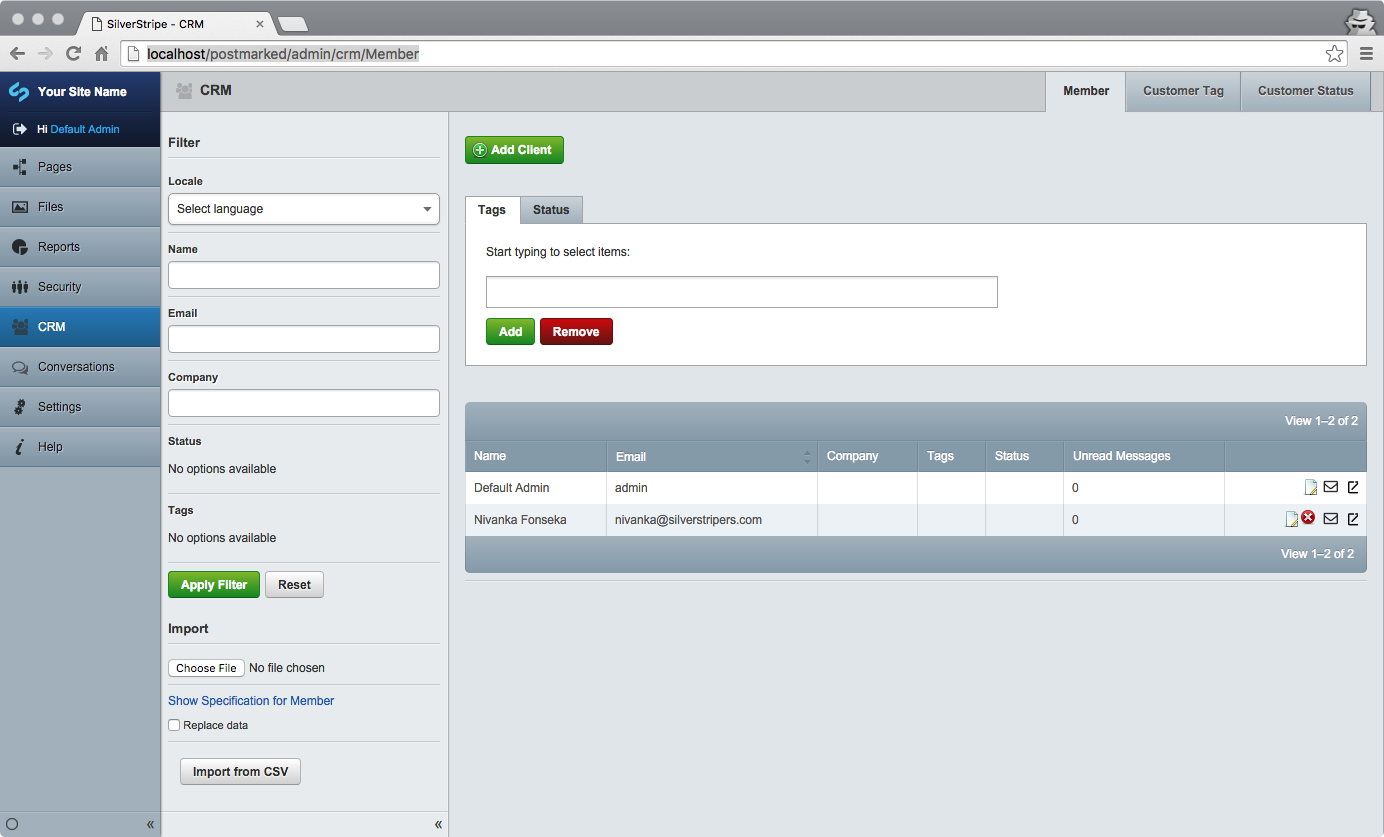
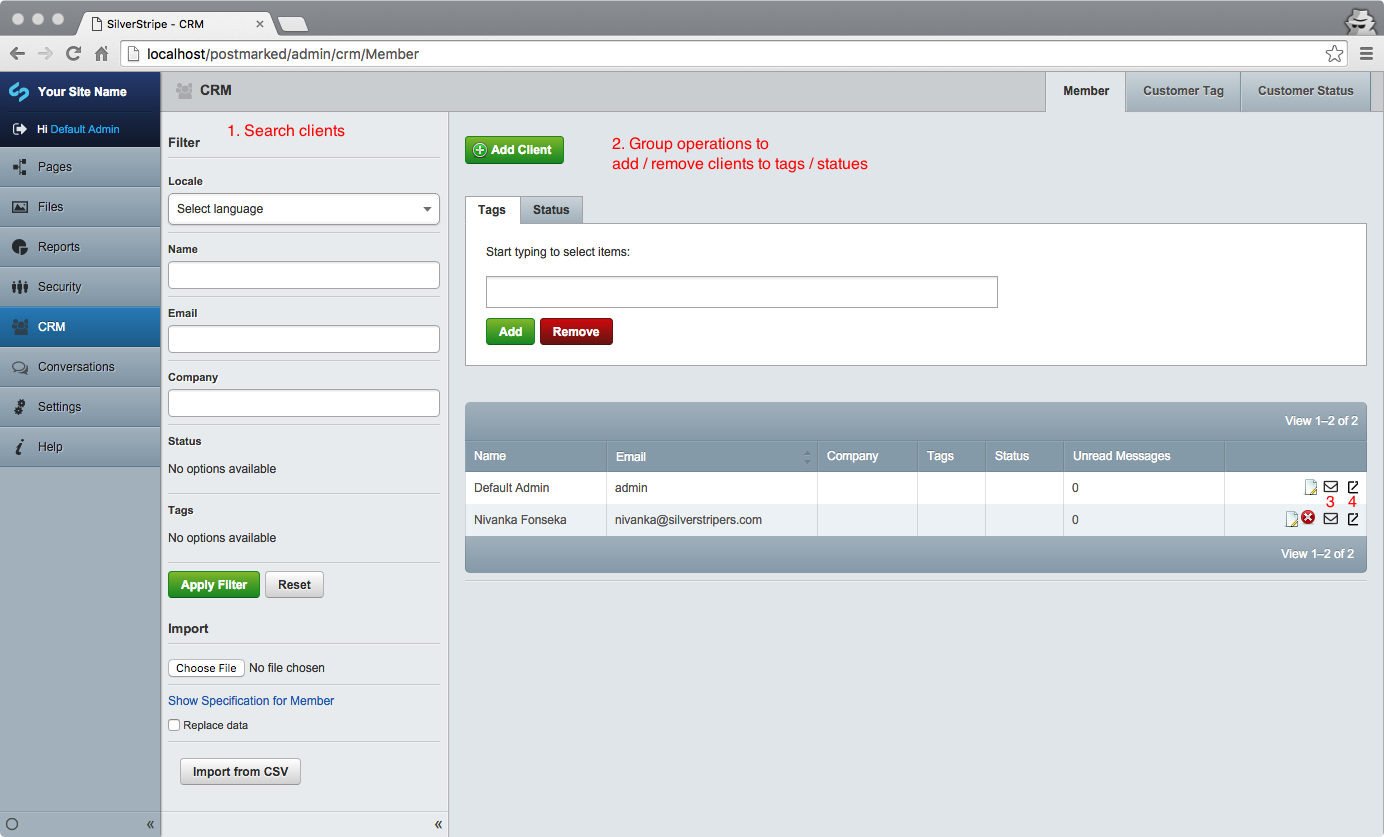
updated screen grab

Changed region(s): [[0.0932, 0.0311, 0.3107, 0.0932], [0.435, 0.1553, 0.6214, 0.2174], [0.1864, 0.1553, 0.2486, 0.1864]]

diff --git a/README.md b/README.md
@@ -17,4 +17,7 @@ The out of the box key features include
 
 ![CRM Admin](/docs/images/crm-admin.png)
 
-CRM Admin 
+_CRM Admin_
+
+
+
